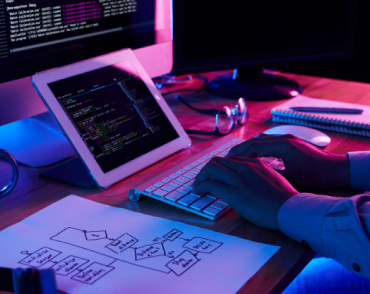
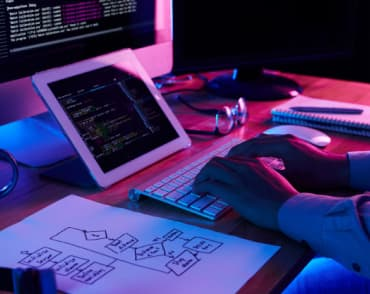
optimized img

diff --git a/css/styles.css b/css/styles.css
@@ -27,6 +27,10 @@ p {
   margin-top: 0;
   margin-bottom: 0;
 }
+
+img {
+  display: block;
+}
 .list {
   list-style: none;
   margin: 0;
@@ -50,7 +54,7 @@ p {
   text-align: center;
   letter-spacing: 0.03em;
 
-  padding-bottom: 50px;
+  margin-bottom: 50px;
 }
 .list.features,
 .list.heading,
@@ -332,9 +336,10 @@ p {
 .list.portfolio .item-portfolio + .item-portfolio {
   margin-left: 8px;
 }
-/* .item-content img {
-  margin-bottom: 20px;
-} */
+.item-content img {
+  width: 370px;
+  text-align: center;
+}
 .list.content {
   flex-wrap: wrap;
   margin-right: -30px;
@@ -344,8 +349,10 @@ p {
   margin-right: 30px;
 
   margin-bottom: 30px;
-
+}
+.text-content {
   border: 1px solid #eeeeee;
+  padding: 20px 24px;
 }
 .item-content:nth-child(3n) {
   margin-right: 0;
@@ -361,8 +368,6 @@ p {
   letter-spacing: 0.06em;
 
   margin-bottom: 4px;
-  /* padding-left: 24px; */
-  /* padding-top: 20px; */
 }
 .categories {
   color: var(--secondary-text-color);
@@ -370,14 +375,6 @@ p {
   font-size: 16px;
   line-height: 1.87;
   letter-spacing: 0.03em;
-
-  /* padding-left: 24px;
-  padding-bottom: 20px; */
-}
-.text-content {
-  padding-top: 20px;
-  padding-bottom: 20px;
-  padding-left: 24px;
 }
 .link-content {
   text-decoration: none;
@@ -386,7 +383,6 @@ p {
 .item-content:focus {
   box-shadow: 0px 1px 1px rgba(0, 0, 0, 0.12), 0px 4px 4px rgba(0, 0, 0, 0.06), 1px 4px 6px rgba(0, 0, 0, 0.16);
 }
-
-.container {
+/* .container {
   outline: 1px solid green;
-}
+} */
